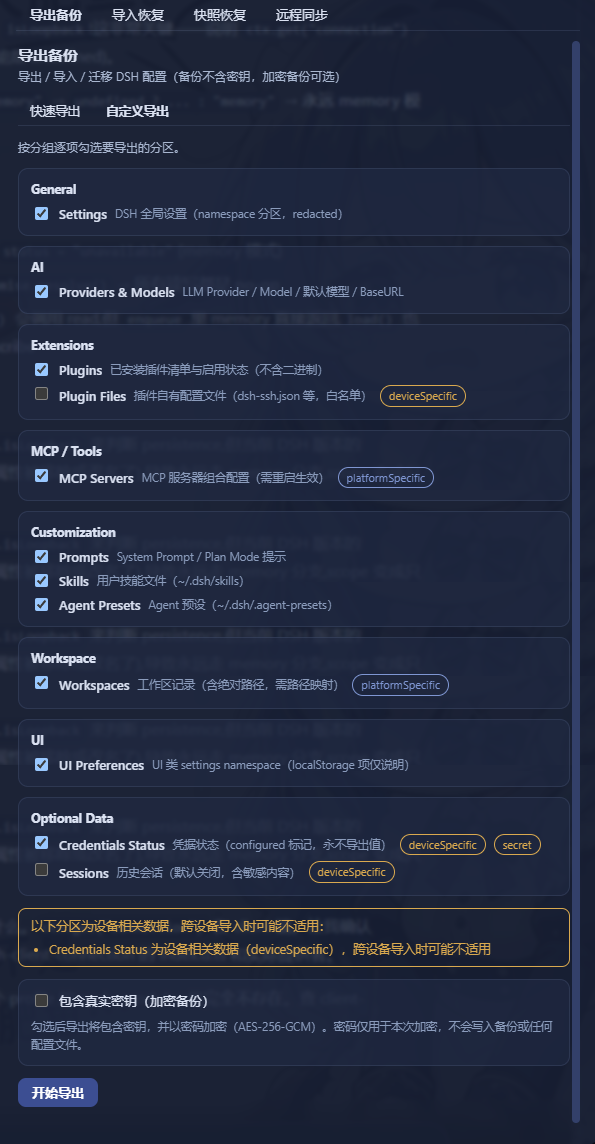
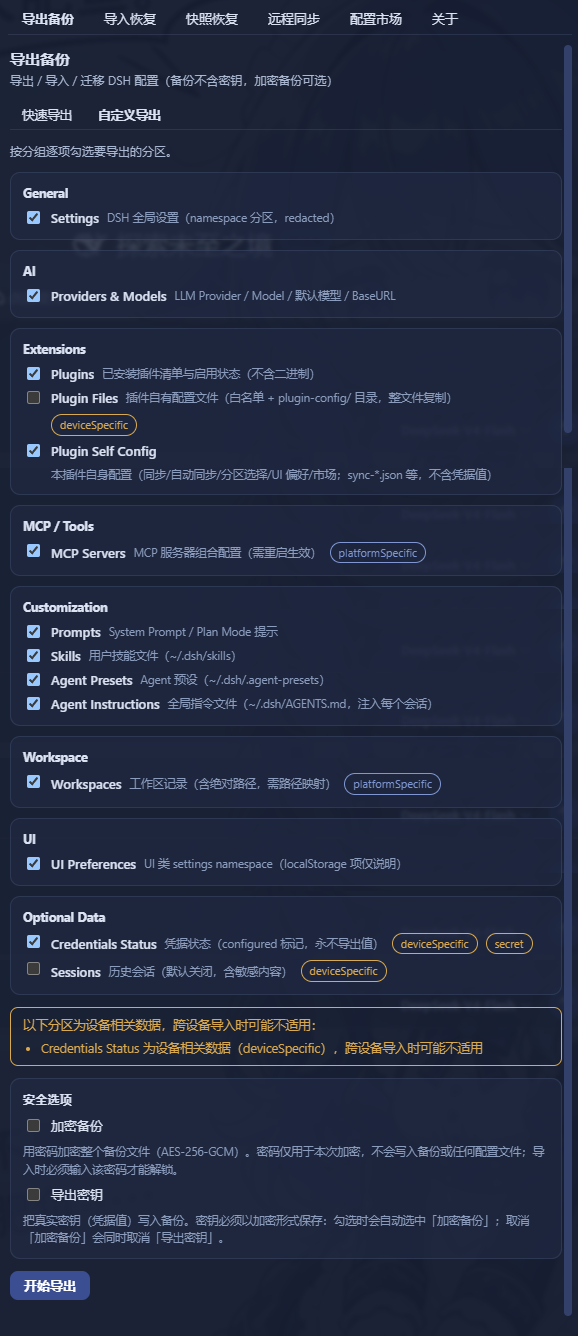
docs: 配置市场描述上线（README 中英镜像 + 市场截图）；安装命令移除 --config.auto-install-peers=false；bump to v0.1.45

diff --git a/src/index.ts b/src/index.ts
@@ -132,7 +132,7 @@ export const name = 'config-manager'
 export const inject = ['settings', 'credentials']
 
 /** Plugin version, kept in sync with package.json ("version"). */
-const PLUGIN_VERSION = '0.1.44'
+const PLUGIN_VERSION = '0.1.45'
 
 /** Plugin own package name — excluded from its own exported plugins list. */
 const PLUGIN_NAME = 'dsh-config-manager'

diff --git a/README.md b/README.md
@@ -11,6 +11,7 @@ Backup, restore, export, import, migrate and sync your complete DeepSeek Harness
 - 🧩 Backup **MCP servers** and **Skills**
 - 🔐 Encrypted backups with optional credentials
 - ☁ **Git / WebDAV** configuration sync
+- 🛒 **Configuration market** — browse & one-click install shared configs
 - ↩ Automatic snapshot and rollback before restore
 
 [English](README.md) · [简体中文](README.zh-CN.md)
@@ -52,6 +53,10 @@ Move your complete DeepSeek Harness setup without manually reinstalling plugins,
 
 Keep portable configuration synchronized between machines through a private Git repository or WebDAV — secrets never sync.
 
+### Discover & install configurations from the marketplace
+
+Browse the built-in official market for ready-made configurations (model providers, plugins, MCP servers, skills, agent presets…), preview what would be imported (dry-run), and install with one click — supply-chain warnings are always shown and every section must be explicitly approved before anything is written.
+
 ---
 
 ## ✨ Highlights
@@ -67,6 +72,7 @@ Keep portable configuration synchronized between machines through a private Git 
 | ↩ | **Automatic rollback** | Failed import restores everything automatically |
 | 📸 | **Snapshot restore** | Undo an import: whole-file restore + uninstall added plugins (CLI & GUI) |
 | 🔄 | **Remote Sync** | Push/pull portable config via **Git private repo or WebDAV** (secrets never sync) |
+| 🛒 | **Config Marketplace** | Browse & one-click install community configs — supply-chain warnings + per-section approval |
 | 🗂 | **Profiles** | Save multiple setups (Work / Personal) and switch anytime |
 | 🌐 | **Bilingual UI** | Interface, reports and error details follow the DSH app language (中文 / English) |
 
@@ -81,6 +87,10 @@ Keep portable configuration synchronized between machines through a private Git 
 | Snapshot Restore | Remote Sync |
 |:---:|:---:|
 | ![Snapshot Restore](assets/screenshot-snapshots.png) | ![Remote Sync](assets/screenshot-sync.png) |
+
+| Configuration Market |
+|:---:|
+| ![Configuration Market](assets/screenshot-market.png) |
 
 ---
 
@@ -112,17 +122,17 @@ It's a standard **DSH plugin** — two steps:
 
 ```bash
 # ① Install the plugin
-dsh plugin --profile web add dsh-config-manager@latest --config.auto-install-peers=false
+dsh plugin --profile web add dsh-config-manager@latest
 
 # ② Restart DSH (a "Backup & Migration" entry appears in Settings)
 ```
 
-> 💡 Just copy-paste the command: `--config.auto-install-peers=false` skips a few DSH core packages that aren't on the public registry yet (the DSH runtime provides them), and `@latest` ensures you get the newest build.
+> 💡 Just copy-paste the command: `@latest` ensures you get the newest build.
 >
 > 🐛 **`@latest` installed an old version?** That's pnpm 11's `minimumReleaseAge` supply-chain policy, not a cache issue: versions published less than ~30 days ago are excluded from resolution until whitelisted. Two fixes:
 > - Install an exact version once (it auto-whitelists, then `@latest` works):
 >   ```bash
->   dsh plugin --profile web add dsh-config-manager@0.1.8 --config.auto-install-peers=false
+>   dsh plugin --profile web add dsh-config-manager@0.1.8
 >   ```
 > - Or disable the age gate with a one-liner (adds `minimumReleaseAge: 0` at the top of the profile's `pnpm-workspace.yaml`):
 >   ```powershell
@@ -225,6 +235,16 @@ Push / pull your portable config between machines through **either of two channe
 - **Switching channels starts fresh**: Git and WebDAV do **not** share snapshots or a common ancestor. When you switch transport, sync begins again from the new remote's empty baseline — push a fresh snapshot first.
 - **WebDAV auth** uses HTTP Basic: the `username` is stored in the config and may be echoed back into the UI, while the `password` is read live from the DSH credentials slot `DSH_CONFIG_MANAGER_SYNC_WEBDAV_PASSWORD` — it never appears in any sync file or log.
 - **Plugins auto-install**: when pulling diffs, plugins that are new in the backup are **installed automatically** on confirm — no manual per-item ticking in the diff list. Only **version-conflict** plugins still ask you to pick "Keep Current / Use Imported".
+
+### 🛒 Configuration Marketplace
+
+Browse and install ready-made configurations (model providers, plugins, MCP servers, skills, agent presets…) shared by the community:
+
+- **Built-in official market** — read-only, bound to the official public repo (official badge shown, not editable); first open auto-refreshes, manual refresh also available
+- **Search & filter** — keyword search, category filter, source filter (Official / Community), sorting (recently updated / most starred / name A–Z), and a ⭐ badge showing the **source repo's** star count (queried anonymously, no token involved)
+- **Supply-chain warnings always shown** — source repo URL, "not officially reviewed", download time; **per-section approval** — high-risk sections (sessions / arbitrary files) are banned from listing outright, and every remaining section must be explicitly approved before the import is confirmed
+- **Install reuses the safe import pipeline** — analyze → preview → auto-backup → apply → rollback; nothing is written before you confirm
+- **"My Configs"** — sign in with GitHub (device flow), upload a config to **your own public repo** in one click, and an **auto listing PR** is opened against the official market repo; manage your listings (status badges: not listed / PR pending / listed), update in one click, install back locally, or delist (auto de-listing PR)
 
 ### 🗂 Profiles
 

diff --git a/CHANGELOG.md b/CHANGELOG.md
@@ -11,6 +11,20 @@ This file records release highlights of dsh-config-manager (bilingual: 中文 + 
 
 ## [Unreleased]
 
+## [v0.1.45] - 2026-08-21
+
+### 🎯 亮点 / Highlights (zh)
+
+- 🧹 **安装命令简化**：README / DEVELOPERS 的安装命令统一为 `dsh plugin --profile web add dsh-config-manager@latest`，移除 `--config.auto-install-peers=false` 后缀——照着复制即可，无需再关心 peer 解析参数
+- 🛒 **README 配置市场描述上线**：两个 README（中英镜像）新增配置市场完整描述——首屏亮点 + Use Cases + 核心亮点表格 + 功能详解小节（内置官方市场 / 搜索筛选排序 / 供应链警示恒展示 + 逐分区批准 / 安装复用安全导入管道 / 「我的配置」一键上传到自有仓库 + 自动收录 PR）；功能截图新增 `assets/screenshot-market.png`
+- 🎨 **市场「我的配置」上传向导打磨**：改为三步式（选文件 → 本地校验 → 精简表单，仅 name / description / categories，其余系统自动）；更新模式支持页内换新 ZIP 并自动校验；详情视图 JSX 结构调整
+
+### Highlights (en)
+
+- 🧹 **Simplified install command**: README / DEVELOPERS now use `dsh plugin --profile web add dsh-config-manager@latest` — the `--config.auto-install-peers=false` suffix is gone, so users can just copy-paste
+- 🛒 **Marketplace docs shipped**: both READMEs (en + zh mirror) now fully describe the config marketplace — hero bullet, Use Cases, highlights table and a dedicated feature section (built-in official market / search, filter & sort / always-on supply-chain warnings + per-section approval / install reuses the safe import pipeline / "My Configs" one-click upload to your own repo with auto listing PR); new `assets/screenshot-market.png` added to the screenshots
+- 🎨 **Marketplace "My Configs" upload wizard polished**: now a three-step flow (pick file → local dry-run validation → slim form with only name / description / categories, the rest auto-filled); update mode lets you swap in a new ZIP inline with auto-validation; detail view JSX restructured
+
 ## [v0.1.44] - 2026-08-21
 
 ### 🎯 亮点 / Highlights (zh)

diff --git a/assets/README.md b/assets/README.md
@@ -20,5 +20,6 @@
 | `screenshot-import-preview.png` | 导入前预览（dry-run） |
 | `screenshot-snapshots.png` | 快照恢复列表 |
 | `screenshot-sync.png` | 远程同步界面 |
+| `screenshot-market.png` | 配置市场界面 |
 
 图片内容、张数、顺序随时可以改——换图时同步更新 `screenshots.json` 并提交新的 PR（只改自己那条）。
